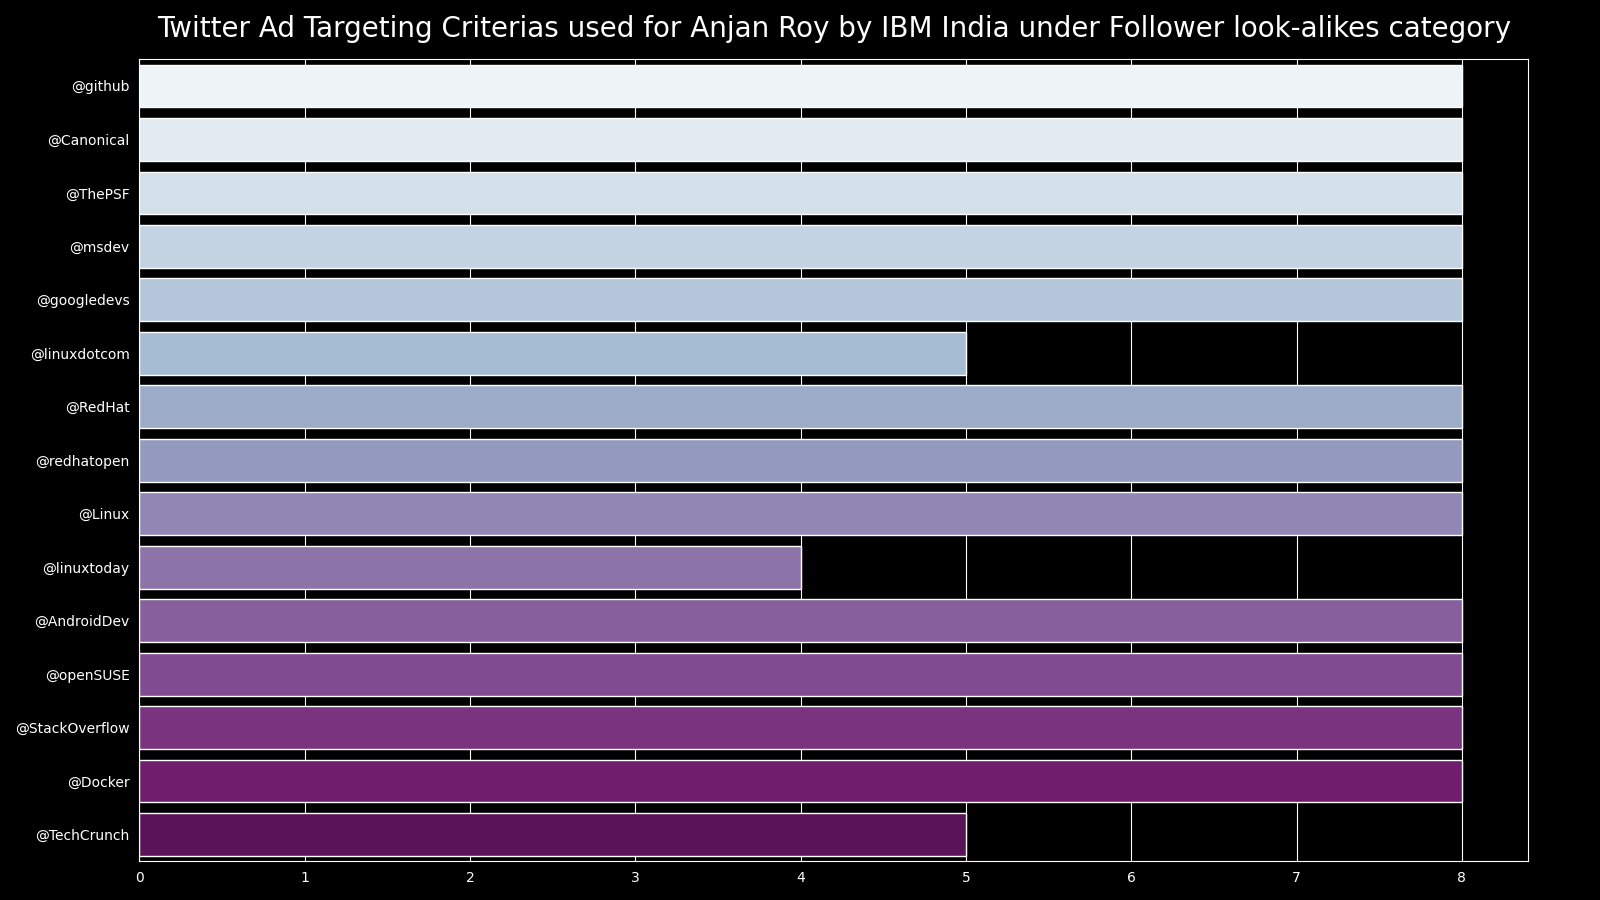
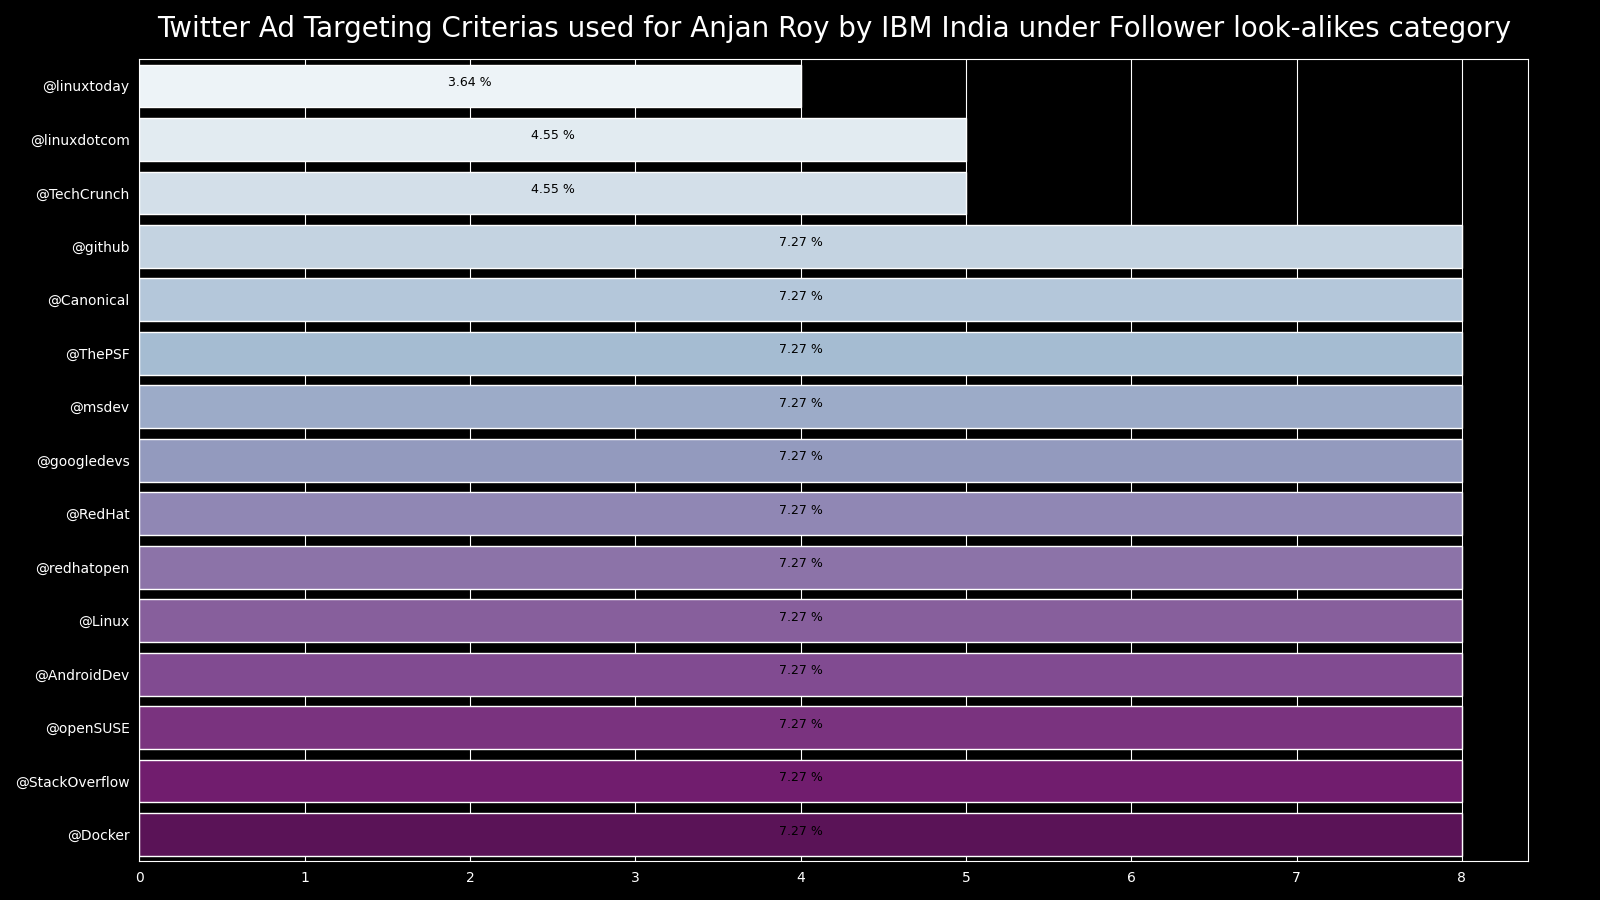
updated plot aesthetics

diff --git a/twiz/plot/ad/engagement/viz.py b/twiz/plot/ad/engagement/viz.py
@@ -239,7 +239,7 @@ def plotTopXAdvertisersAsHeatMap(data: Engagements, x: int, title: str, sink: st
 
 def _prepareDataForPlottingTargetCriteriasByAdvertiserName(data: Engagements, advertiser: str) -> map:
     def _prepareDataForTargetType(elem: str) -> Tuple[str, List[str], List[int]]:
-        _x = list(_data[elem].keys())
+        _x = sorted(_data[elem].keys(), key=lambda e: _data[elem][e])
         _y = [_data[elem][i] for i in _x]
 
         return elem, _x, _y
@@ -267,7 +267,7 @@ def plotTargetCriteriasForTopXAdvertisers(data: Engagements, x: int, title: str,
                 for i, j in enumerate(fig.gca().patches):
                     fig.gca().text(j.get_x() + j.get_width() * .5,
                                    j.get_y() + j.get_height() * .5,
-                                   '{:.2f} %'.format((_x[i] / _sum) * 100),
+                                   '{:.2f} %'.format((_y[i] / _sum) * 100),
                                    ha='center',
                                    rotation=0,
                                    fontsize=9,
